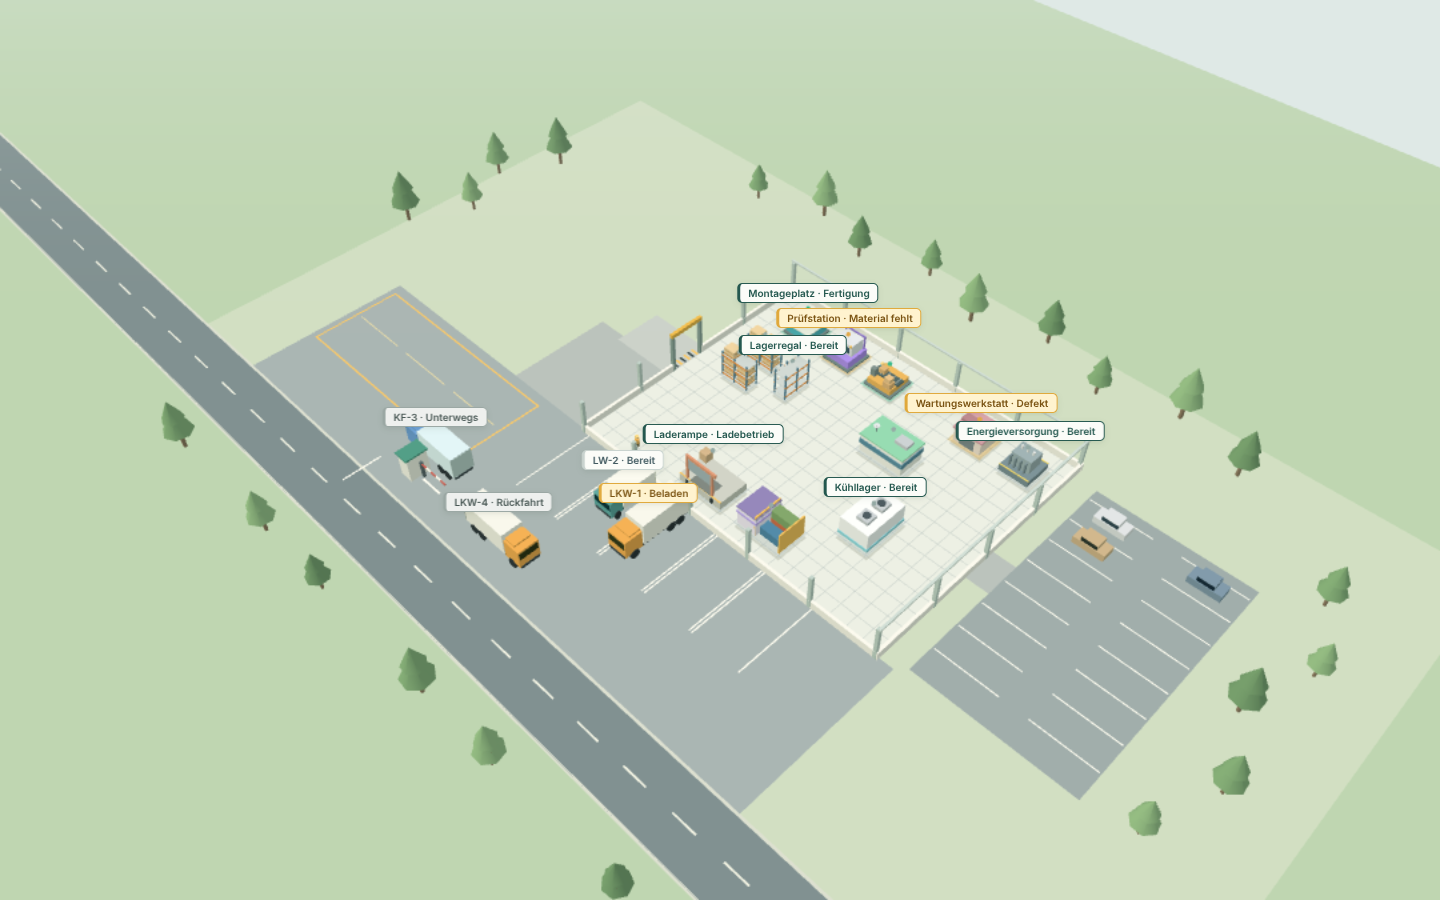
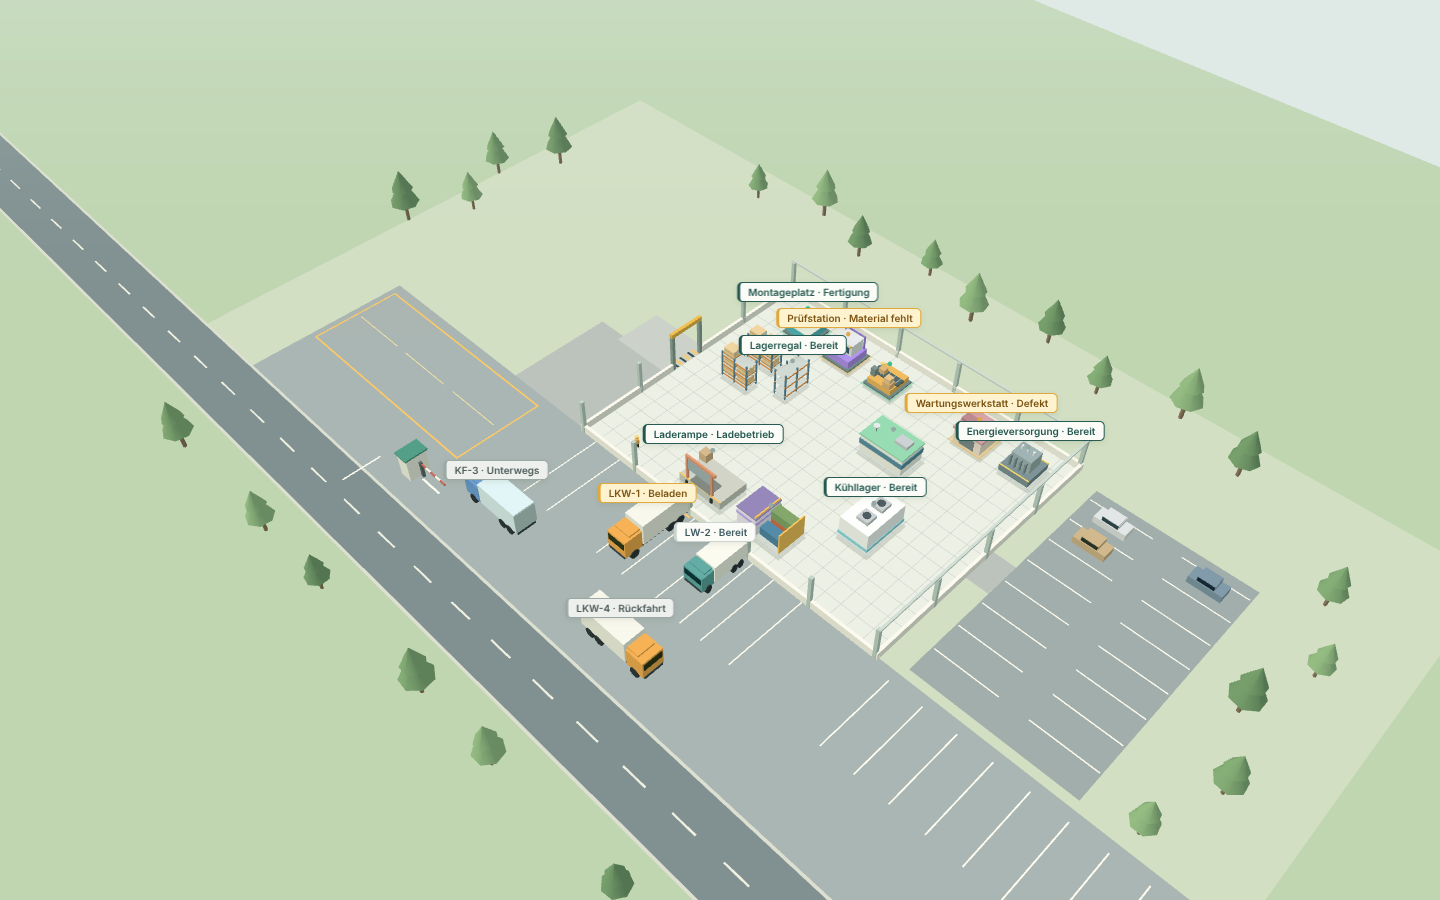
A09 W1b: Fremd-Lkw/eigene Flotte am Dock getrennt, Fuhrpark statt geteilter Wartefläche, Browserablauf Hof
- Befund A01 (hof-ui-0.9.png): Bild stammt aus A10-Stand ohne A09-Hofdarstellung (6425919 nicht in 89c64f7).
  Integrierter Stand zeigt OHD-MC 7516 an Dock 1 (Import-Probe, Browsertest + hof-probe-0.9.png).
- dockSlots/freeBays/parkPose/fleetPlans: eigene Fahrzeuge am tatsächlich belegten Dock (b.task = Sendung/Tour),
  sonst Stellplatz mit Abstand >= PARK_GAP zu jedem Dock, Überlauf im Fuhrpark östlich; Wartefläche nur Fremd-Lkw.
- Docks in gleicher Spalte erhalten getrennte Andockplätze.
- Browser: Probe-Import ohne Panel, echter Ablauf Sandbox -> Dock+Regal -> Lagerkraft -> Startvertrag -> 12x bis Entladen
  (hof-echt-0.9.png); Hof-Probe wartet unter SwiftShader-Last auf den nächsten Frame.

Claude-Session: https://claude.ai/code/session_01JKg2Ugwyoboau73y8G2AiU

diff --git a/dist/scene3d.js b/dist/scene3d.js
@@ -45,9 +45,49 @@ export function slotPose(layout, k, len = 4.2, dockX = null) {
     const x = dockX != null ? Math.max(1, Math.min(layout.W - 1, dockX)) : layout.bays[k];
     return { x, z: layout.bayZ + len / 2, heading: Math.PI / 2 };
   }
-  const i = k - layout.bays.length, col = i % 3, row = Math.floor(i / 3) % 3;
-  return { x: -15 + col * 4.4, z: layout.H + 1.6 + row * 1.9, heading: 0 };
+  return fleetParkPose(layout, k - layout.bays.length, len);
 }
+// Eigene Flotte und Fremd-Lkw teilen keine Fläche: Fremd-Lkw nur an Dockplätzen, Tor, gelber Wartefläche;
+// eigene Fahrzeuge am belegten Dock, sonst an freien Stellplätzen der Andockreihe (nicht vor Docks), sonst Fuhrpark östlich.
+export const DOCK_GAP = 1.7;               // Mindestabstand der Fahrzeugmitten an der Andockreihe
+export const PARK_GAP = 2.9;               // Stellplatz der eigenen Flotte: Seitenabstand zum nächsten Dockplatz (sichtbare Lücke auch in Schrägsicht)
+export const FLEET_PARK = 8;               // Stellplätze im Fuhrpark östlich der Andockreihe
+/** Fuhrpark-Stellplatz i (östlich der Halle, südlich des Mitarbeiterparkplatzes); Heck zur Hallenwand. */
+export function fleetParkPose(L, i, len = 4.2) { return { x: L.W + 2.2 + (Math.max(0, i) % FLEET_PARK) * 1.9, z: L.H + .6 + len / 2, heading: Math.PI / 2 }; }
+/** Andockplatz je Dock an der Südwand: Mitte der Dockspalte (Rotation über footprint). Docks in derselben Spalte rücken um DOCK_GAP nach Osten. */
+export function dockSlots(L, buildings) {
+  const docks = (buildings || []).filter(b => b.type === 'dock').map(b => { const box = buildingBox(b); return { id: b.id, x: (box.x0 + box.x1) / 2 }; });
+  docks.sort((a, b) => a.x - b.x || String(a.id).localeCompare(String(b.id)));
+  const out = new Map(); let last = -Infinity;
+  for (const d of docks) { const x = Math.min(L.W - 1, Math.max(1, d.x, last + DOCK_GAP)); out.set(d.id, x); last = x; }
+  return out;
+}
+/** Stellplätze der Andockreihe, die vor keinem Dock liegen (Abstand ≥ PARK_GAP zu jedem Andockplatz). */
+export function freeBays(L, slots) { const xs = [...(slots?.values?.() || [])]; return L.bays.filter(x => xs.every(d => Math.abs(d - x) >= PARK_GAP)); }
+/** Stellplatz des eigenen Fahrzeugs k ohne Dock: freie Andockreihe, dann Fuhrpark. Nie Wartefläche, nie vor einem Dock. */
+export function parkPose(L, free, k, len = 4.2) {
+  if (k < free.length) return { x: free[k], z: L.bayZ + len / 2, heading: Math.PI / 2 };
+  return fleetParkPose(L, k - free.length, len);
+}
+/**
+ * Eigene (und durchfahrende) Fahrzeuge am Standort: am tatsächlich belegten Dock (b.task = Sendungs-/Tour-ID), sonst Stellplatz k
+ * (stabil nach Reihenfolge der Heimatflotte). Reine Ableitung aus dem Zustand, ohne Seiteneffekte.
+ */
+export function fleetPlans(state, siteId, buildings, L) {
+  const vehicles = state?.vehicles || [], home = vehicles.filter(v => v.site === siteId), slots = dockSlots(L, buildings), free = freeBays(L, slots), out = [];
+  let foreign = home.length;
+  for (const v of vehicles) {
+    if (v.status === 'rentalReturned') continue;
+    const plan = vehiclePlan(state, v, siteId); if (plan.mode === 'away') continue;
+    const k = v.site === siteId ? home.indexOf(v) : foreign++;
+    const id = plan.task?.id, dock = plan.mode === 'site' && id ? buildings.find(b => b.type === 'dock' && b.task === id) : null;
+    const len = VEH_LEN[v.type] || 4.2, pose = dock ? dockSlotPose(L, slots.get(dock.id), len) : parkPose(L, free, k, len);
+    out.push({ v, plan, pose, len, dock: dock?.id || null });
+  }
+  return out;
+}
+/** Pose am Andockplatz (Heck an der Rampe). */
+export function dockSlotPose(L, x, len = 4.2) { return { x, z: L.bayZ + len / 2, heading: Math.PI / 2 }; }
 /** Fahrweg Stellplatz → Straße (out) bzw. Straße → Stellplatz (in). */
 export function vehiclePath(layout, pose, dir) {
   const L = layout;
@@ -202,7 +242,7 @@ export function gatePose(L, len = FOREIGN_LEN) { return { x: L.exitX, z: L.yardG
 /** Dockposition des zugeteilten Docks (Heck an der Rampe), sonst null. */
 export function dockPoseFor(L, buildings, dockId, len = FOREIGN_LEN) {
   const b = dockId != null && (buildings || []).find(o => o.id === dockId); if (!b) return null;
-  const box = buildingBox(b); return slotPose(L, 0, len, (box.x0 + box.x1) / 2);
+  return dockSlotPose(L, dockSlots(L, buildings).get(b.id), len);
 }
 /** Polygonzug mit abgerundeten Ecken (quadratische Bézier) und Rückwärtskennung r je Segmentende. Spitzkehren (Wechsel vor/zurück) bleiben Ecke. */
 export function makePath(pts, radius = YARD_TURN, steps = 6) {
@@ -438,7 +478,7 @@ function mergedGeo(build) { const P = new Parts(); build(P); return P.geometry()
 const TONE_HEX = { active: '#3cbb8e', blocked: '#e4ab4b', idle: '#95aaa5' };
 const CHIP = { wait: ['#fff3cf', '#e0a83a', '#7a5312'], move: ['#e3eefc', '#5b8fd6', '#244a7a'], gate: ['#eef0ee', '#9aa7a3', '#4b5a57'], dock: ['#e3f3ea', '#3cbb8e', '#22604a'], idle: ['#fbfcf8', '#c9d3cf', '#405960'], infra: ['#fbfcf8', '#23574e', '#23574e'], bad: ['#fbe4df', '#cb675d', '#8f3e36'] };
 const CAM_KEYS = ['tx', 'tz', 'dist', 'yaw'];
-const VEH_LEN = { van: 3.0, truck: 4.2, refrigerated: 4.0 };
+export const VEH_LEN = { van: 3.0, truck: 4.2, refrigerated: 4.0 };
 const CAB_HEX = { van: '#5ea7a3', truck: '#ebac53', refrigerated: '#6b9fd6' };
 const BOX_HEX = { van: '#f1f3ec', truck: '#eef0e8', refrigerated: '#d9eef3' };
 
@@ -632,7 +672,12 @@ export class Scene3D {
     P.quad(-75, L.roadOutZ - 1.1, W + 150, 3.6, -.005, '#7b8c8e'); for (let x = -74; x < W + 74; x += 3) P.quad(x, L.roadOutZ + .62, 1.4, .1, .002, '#e5e8dc');
     P.quad(-75, L.roadOutZ - 1.25, W + 150, .15, -.004, '#d3d9cc'); P.quad(-75, L.roadInZ + 1.15, W + 150, .15, -.004, '#d3d9cc');
     P.quad(-17, H, W + 18, L.roadOutZ - 1.1 - H, -.01, '#a3b0b0'); P.quad(-6, 9.6, 5.8, H - 9.6, -.012, '#b3bdb9');
-    for (const x of L.bays) { P.quad(x - 1.55, H + .05, .08, 5, .003, '#f4f5ec'); P.quad(x + 1.47, H + .05, .08, 5, .003, '#f4f5ec'); }
+    // Andockreihe: Dockplätze (Mitte je Dock) und freie Stellplätze; Fuhrpark der eigenen Flotte östlich davon.
+    const slots = dockSlots(L, (this.state?.buildings || []).filter(b => b.site === s.id));
+    for (const x of [...slots.values(), ...freeBays(L, slots)]) { P.quad(x - .95, H + .05, .07, 5, .003, '#f4f5ec'); P.quad(x + .88, H + .05, .07, 5, .003, '#f4f5ec'); }
+    for (const x of slots.values()) P.quad(x - .7, H + .25, 1.4, .12, .004, '#f2c363');
+    P.quad(W + 1, H, FLEET_PARK * 1.9 + 1.2, L.roadOutZ - 1.1 - H, -.01, '#a3b0b0');
+    for (let i = 0; i <= FLEET_PARK; i++) P.quad(W + 1.2 + i * 1.9, H + .6, .07, 4.6, .003, '#f4f5ec');
     P.quad(-16.6, H + .6, 13.4, .1, .003, '#f2c363'); P.quad(-16.6, H + 6, 13.4, .1, .003, '#f2c363'); P.quad(-16.6, H + .6, .1, 5.5, .003, '#f2c363'); P.quad(-3.3, H + .6, .1, 5.5, .003, '#f2c363');
     for (let i = 0; i < 3; i++) P.quad(-16.2 + i * 4.4, H + 3.2, 3.6, .06, .003, '#e7d9a4');
     P.quad(L.entryX - 1.2, L.laneZ + 2.2, .1, 2.3, .003, '#f4f5ec');
@@ -709,16 +754,8 @@ export class Scene3D {
     for (let i = 0; i < cars; i++) this.setInst(car, i, L.W + 3.4 + (i % 2) * 5.2, 0, 2.1 + Math.floor(i / 2) * 1.8, 0, 1, 1, 1, ['#d9dfe2', '#7c96a8', '#c9b28a', '#a7b9a1', '#e6e2d7'][i % 5]);
     this.finish(car, cars);
     // Fahrzeugpläne; Positionen folgen pro Frame
-    const vehicles = st?.vehicles || [], home = vehicles.filter(v => v.site === s.id), plans = [];
-    let foreign = home.length;
-    for (const v of vehicles) {
-      if (v.status === 'rentalReturned') continue;
-      const plan = vehiclePlan(st, v, s.id); if (plan.mode === 'away') continue;
-      const k = v.site === s.id ? home.indexOf(v) : foreign++;
-      const dock = plan.mode === 'site' && plan.task ? buildings.find(b => b.type === 'dock' && b.task && b.task === plan.task.id) : null;
-      const len = VEH_LEN[v.type] || 4.2, pose = slotPose(L, k, len, dock ? (buildingBox(dock).x0 + buildingBox(dock).x1) / 2 : null);
-      plans.push({ v, plan, pose, len, path: plan.mode === 'site' ? null : vehiclePath(L, pose, plan.mode), x: pose.x, z: pose.z, heading: pose.heading, shown: false, label: `${vehicleTag(v)} · ${this.statusLabel(plan.status)}` });
-    }
+    const plans = fleetPlans(st, s.id, buildings, L);
+    for (const p of plans) Object.assign(p, { path: p.plan.mode === 'site' ? null : vehiclePath(L, p.pose, p.plan.mode), x: p.pose.x, z: p.pose.z, heading: p.pose.heading, shown: false, label: `${vehicleTag(p.v)} · ${this.statusLabel(p.plan.status)}` });
     this.fleet = plans; this.ensure('vbox', plans.length); this.ensure('vcab', plans.length); this.ensure('vbase', plans.length);
     for (const p of plans) { p.hit = { id: p.v.id, box: { x0: 0, x1: 0, y0: 0, y1: 1.9, z0: 0, z1: 0 }, fleet: p }; this.boxes.push(p.hit); }
     // Fremd-Lkw aus s.yard (W1-S4); Positionen folgen pro Frame. Phasenwechsel übernehmen die zuletzt gezeigte Pose (nur Darstellung).

diff --git a/tests/scene3d-own.test.js b/tests/scene3d-own.test.js
@@ -2,7 +2,9 @@
 import test from 'node:test';
 import assert from 'node:assert/strict';
 import fs from 'node:fs';
-import {cellToWorld,worldToCell,buildingBox,buildingTone,sceneSignature,yardLayout,slotPose,vehiclePath,pointOnPath,phaseDuration,phaseProgress,vehiclePlan,vehicleT,vehicleTag,rackPallets,workerSpots,selectLabels,adaptResolution,rayBox,rayGround,networkLayout,MAX_LABELS,FOREIGN_LEN,QUEUE_PLACES,QUEUE_DRIVE,PHASE_LABEL,queueOrder,queuePlace,gatePose,dockPoseFor,makePath,pathPose,approachPath,toDockPath,dockingPath,arrivalTone,arrivalLabel,carrierColor,arrivalPlan,arrivalPose,arrivalMoving,parcelLoads,PARCELS_PER_CAGE,PARCELS_PER_STACK,MAX_CAGES,MAX_STACKS} from '../dist/scene3d.js';
+import {cellToWorld,worldToCell,buildingBox,buildingTone,sceneSignature,yardLayout,slotPose,vehiclePath,pointOnPath,phaseDuration,phaseProgress,vehiclePlan,vehicleT,vehicleTag,rackPallets,workerSpots,selectLabels,adaptResolution,rayBox,rayGround,networkLayout,MAX_LABELS,FOREIGN_LEN,QUEUE_PLACES,QUEUE_DRIVE,PHASE_LABEL,queueOrder,queuePlace,gatePose,dockPoseFor,makePath,pathPose,approachPath,toDockPath,dockingPath,arrivalTone,arrivalLabel,carrierColor,arrivalPlan,arrivalPose,arrivalMoving,parcelLoads,PARCELS_PER_CAGE,PARCELS_PER_STACK,MAX_CAGES,MAX_STACKS,dockSlots,freeBays,parkPose,fleetPlans,FLEET_PARK,DOCK_GAP,PARK_GAP,VEH_LEN} from '../dist/scene3d.js';
+import {Simulation} from '../dist/core.js';
+import {hubProbe} from './ui-hub-probe.js';
 import {chooseRenderer,hasWebGL} from '../dist/scene-select.js';
 const frozen=value=>{if(value&&typeof value==='object'){Object.freeze(value);Object.values(value).forEach(frozen);}return value;};
 function fixture(){return {t:600,selectedSite:'a',sites:[{id:'a',name:'Morgenfeld',x:0,y:0,width:20,height:16,energy:30},{id:'b',name:'Lindenhain',x:44,y:18,width:20,height:16,energy:30}],buildings:[],workers:[],jobs:[],research:[],batches:[],vehicles:[],transfers:[],shipments:[],returns:[],tours:[],freights:[]};}
@@ -32,7 +34,7 @@ test('Hoflayout: Tor an der Hallenkante bei Zeile 8, Andockplätze vor der Südw
  const L=yardLayout({width:20,height:16});assert.equal(L.gate,8);assert.equal(L.bays.length,5);assert.ok(L.bays.every(x=>x>0&&x<20));
  assert.equal(yardLayout({width:20,height:6}).gate,5);
  const dock=slotPose(L,1);assert.ok(dock.z>16);assert.equal(dock.heading,Math.PI/2);
- const wait=slotPose(L,7);assert.ok(wait.x<0,'Überzählige Fahrzeuge auf Wartefläche');
+ const park=slotPose(L,7);assert.ok(park.x>20&&park.z>16,'Überzählige Fahrzeuge im Fuhrpark östlich, nicht auf der Fremd-Wartefläche');
  assert.equal(slotPose(L,0,4.2,30).x,19,'Rampenposition wird auf Hallenbreite begrenzt');
  const out=vehiclePath(L,dock,'out'),inn=vehiclePath(L,dock,'in');assert.deepEqual(out[0],{x:dock.x,z:dock.z});assert.deepEqual(inn.at(-1),{x:dock.x,z:dock.z});assert.ok(out.at(-1).x<-40&&inn[0].x<-40);
 });
@@ -199,4 +201,42 @@ test('W1 Darstellungslogik verändert eingefrorenen Hofzustand nicht',()=>{
  s.yard=[arr('arrival-1','queue'),arr('arrival-2','toDock',{phaseEnd:602,dock:'d1'}),arr('arrival-3','gone')];const before=JSON.stringify(s);frozen(s);
  const order=queueOrder(s.yard,'a'),dock=dockPoseFor(L1,s.buildings,'d1');for(const a of s.yard){const p=arrivalPlan(L1,a,{rank:order.indexOf(a.id),dock});if(p)arrivalPose(p,601.5,p);}parcelLoads(s,'a');
  assert.equal(JSON.stringify(s),before);
+});
+
+// W1b: eigene Flotte am tatsächlich belegten Dock, Fremd-Lkw und eigene Fahrzeuge ohne optische Überlappung.
+const rect=(p,len,w=1.3)=>{const along=Math.abs(Math.sin(p.heading))>.5;return along?{x0:p.x-w/2,x1:p.x+w/2,z0:p.z-len/2,z1:p.z+len/2}:{x0:p.x-len/2,x1:p.x+len/2,z0:p.z-w/2,z1:p.z+w/2};};
+const hits=(a,b)=>a.x0<b.x1&&b.x0<a.x1&&a.z0<b.z1&&b.z0<a.z1;
+const inQueue=(L,r)=>r.x1>L.queue.x0&&r.x0<L.queue.x1&&r.z1>L.queue.z0&&r.z0<L.queue.z1;
+test('W1b Probe-Zustand (Hub, Import): Fremd-Lkw am Dock 1 sichtbar positioniert, eigener Lieferwagen überlappt nicht',()=>{
+ const {sim,ids}=hubProbe(Simulation),s=sim.state,site=s.sites.find(x=>x.id===s.selectedSite),L=yardLayout(site),buildings=s.buildings.filter(b=>b.site===site.id);
+ const a=s.yard.find(x=>x.id===ids.arrival);assert.equal(a.phase,'unloading');assert.equal(a.dock,ids.docks[0]);
+ const dock=dockPoseFor(L,buildings,a.dock),plan=arrivalPlan(L,a,{dock});assert.ok(plan,'Plan vorhanden');
+ const box=buildingBox(buildings.find(b=>b.id===a.dock));assert.equal(plan.x,(box.x0+box.x1)/2,'Lkw in der Spalte seines Docks');assert.ok(plan.z>L.H&&plan.z<L.laneZ,'vor der Südwand, nicht in der Halle');
+ const own=fleetPlans(s,site.id,buildings,L);assert.equal(own.length,1);assert.equal(own[0].dock,null,'Lieferwagen bereit, ohne Dock');
+ assert.ok(!hits(rect(own[0].pose,own[0].len),rect(dock,FOREIGN_LEN)),'keine Überlappung eigener/Fremd-Lkw');
+ assert.ok(!inQueue(L,rect(own[0].pose,own[0].len)),'eigenes Fahrzeug nicht auf der Fremd-Wartefläche');
+ const st=Simulation.fromJSON(sim.serialize()).state,b2=st.buildings.filter(b=>b.site===site.id);assert.deepEqual(dockPoseFor(L,b2,st.yard[0].dock),dock,'nach Import (fromJSON) gleiche Dockpose');assert.deepEqual(fleetPlans(st,site.id,b2,L).map(p=>p.pose),own.map(p=>p.pose),'nach Import gleiche Stellplätze');
+});
+test('W1b Eigenes Fahrzeug steht am tatsächlich belegten Dock (b.task = Sendung/Tour), nicht an bays[k]',()=>{
+ const s=fixture(),L=yardLayout(s.sites[0]);
+ s.buildings.push({id:'d1',type:'dock',site:'a',x:1,y:13,rotation:0,task:'arrival-1'},{id:'d2',type:'dock',site:'a',x:9,y:11,rotation:0,task:'sh1'},{id:'d3',type:'dock',site:'a',x:13,y:13,rotation:0,task:'tour-1'});
+ s.vehicles.push({id:'vehicle-1',type:'truck',site:'a',status:'loading',shipment:'sh1'},{id:'vehicle-2',type:'van',site:'a',status:'tour',tour:'tour-1'},{id:'vehicle-3',type:'van',site:'a',status:'idle'},{id:'vehicle-4',type:'truck',site:'a',status:'idle'});
+ s.shipments.push({id:'sh1',vehicleId:'vehicle-1',status:'loading',remaining:3,dock:'d2'});s.tours.push({id:'tour-1',vehicleId:'vehicle-2',status:'loading',remaining:2,dock:'d3'});
+ const before=JSON.stringify(s);frozen(s);
+ const slots=dockSlots(L,s.buildings),plans=fleetPlans(s,'a',s.buildings,L),by=id=>plans.find(p=>p.v.id===id);
+ assert.equal(by('vehicle-1').dock,'d2');assert.equal(by('vehicle-1').pose.x,slots.get('d2'));assert.equal(by('vehicle-1').pose.x,10.5,'Dock innerhalb der Halle (y=11): Spalte des Docks');
+ assert.equal(by('vehicle-2').dock,'d3');assert.equal(by('vehicle-2').pose.x,14.5);
+ const foreign=dockPoseFor(L,s.buildings,'d1');assert.equal(foreign.x,2.5);
+ for(const p of plans){const r=rect(p.pose,p.len);assert.ok(!hits(r,rect(foreign,FOREIGN_LEN)),`${p.v.id} überlappt Fremd-Lkw nicht`);assert.ok(!inQueue(L,r),`${p.v.id} nicht auf Wartefläche`);}
+ for(let i=0;i<plans.length;i++)for(let j=i+1;j<plans.length;j++)assert.ok(!hits(rect(plans[i].pose,plans[i].len),rect(plans[j].pose,plans[j].len)),`${plans[i].v.id}/${plans[j].v.id} getrennt`);
+ assert.equal(JSON.stringify(s),before,'Zustand unverändert');
+});
+test('W1b Stellplätze: nie vor einem Dock, Docks in gleicher Spalte getrennt, Überlauf im Fuhrpark statt Wartefläche',()=>{
+ const L=yardLayout({width:20,height:16}),docks=[{id:'d1',type:'dock',x:1,y:13},{id:'d2',type:'dock',x:1,y:9},{id:'d3',type:'dock',x:9,y:13,rotation:90}];
+ const slots=dockSlots(L,docks),xs=[...slots.values()];for(let i=1;i<xs.length;i++)assert.ok(Math.abs(xs[i]-xs[i-1])>=DOCK_GAP-1e-9,'Andockplätze getrennt');
+ const free=freeBays(L,slots);assert.ok(free.every(x=>xs.every(d=>Math.abs(d-x)>=PARK_GAP)));
+ const foreign=xs.map(x=>({x,z:L.bayZ+FOREIGN_LEN/2,heading:Math.PI/2}));
+ const poses=[];for(let k=0;k<FLEET_PARK+free.length;k++){const p=parkPose(L,free,k,VEH_LEN.truck);poses.push(p);const r=rect(p,VEH_LEN.truck);assert.ok(!inQueue(L,r),'nicht auf Wartefläche');for(const f of foreign)assert.ok(!hits(r,rect(f,FOREIGN_LEN)),'nicht vor einem Dock');}
+ for(let i=0;i<poses.length;i++)for(let j=i+1;j<poses.length;j++)assert.ok(!hits(rect(poses[i],4.2),rect(poses[j],4.2)),'Stellplätze überlappen nicht');
+ for(let k=0;k<6;k++){const q=rect(queuePlace(L,k),FOREIGN_LEN);for(const p of poses)assert.ok(!hits(q,rect(p,4.2)),'Warteplatz frei von eigener Flotte');}
 });
